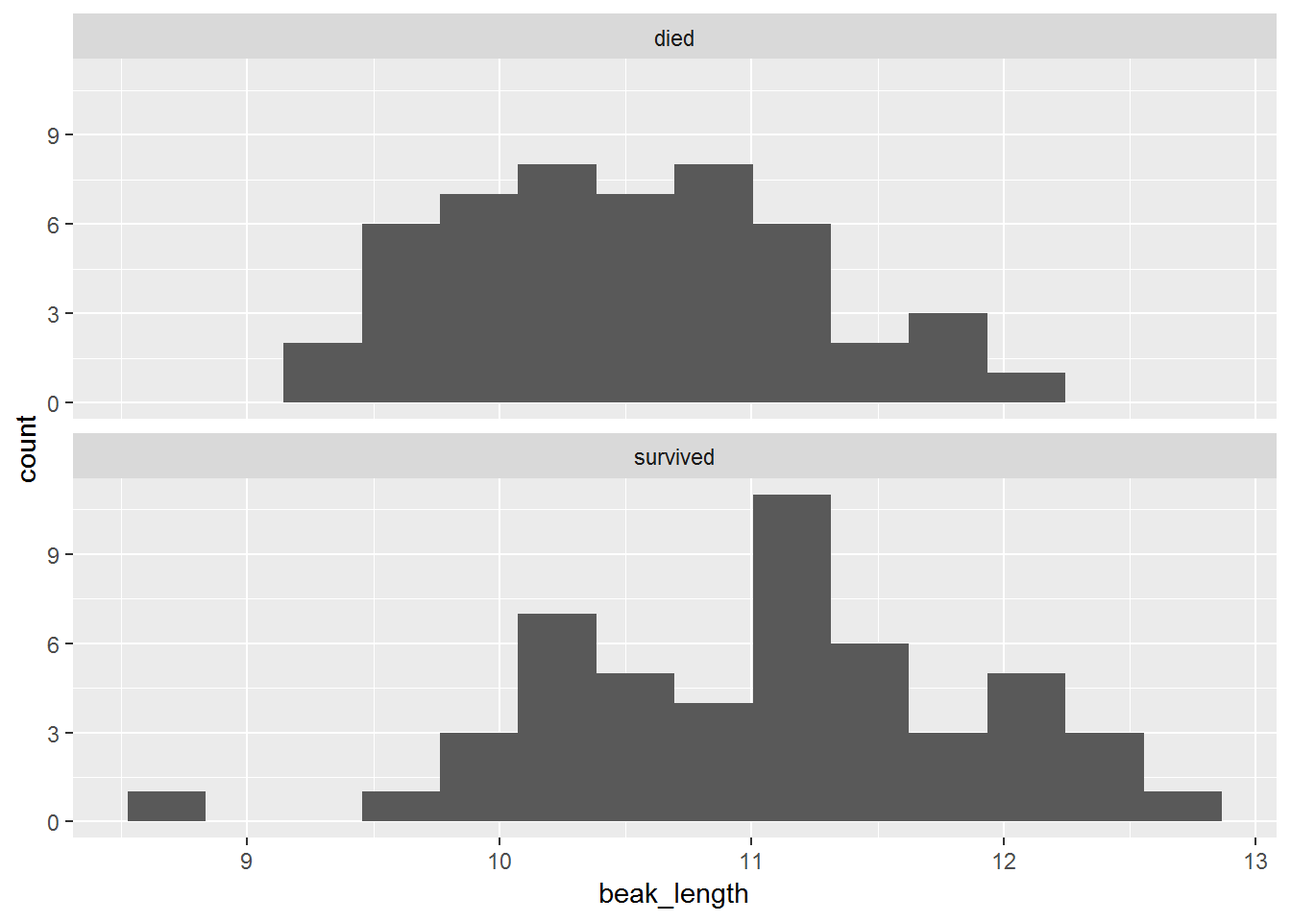
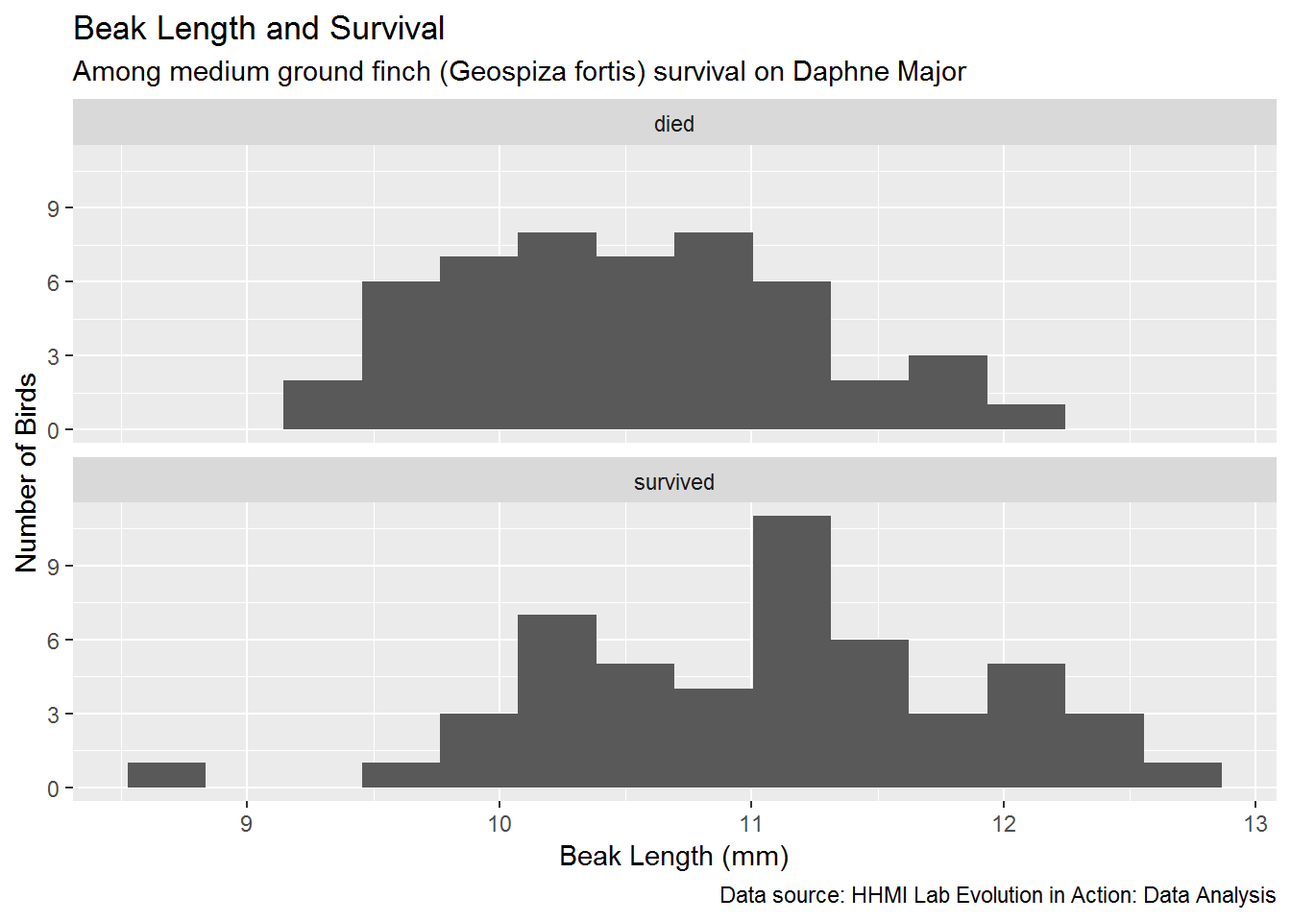
Add t-test text and update figures

diff --git a/lab1_finch.html b/lab1_finch.html
@@ -282,12 +282,12 @@ $(document).ready(function () {
 <div class="sourceCode" id="cb1"><pre class="sourceCode r"><code class="sourceCode r"><a class="sourceLine" id="cb1-1" data-line-number="1"><span class="kw">library</span>(readxl)                <span class="co"># load readxl, for reading Excel files</span></a>
 <a class="sourceLine" id="cb1-2" data-line-number="2"><span class="kw">library</span>(tidyverse)             <span class="co"># load tidyverse, for working with datasets</span></a></code></pre></div>
 <pre><code>## Warning: package &#39;tidyverse&#39; was built under R version 3.5.1</code></pre>
-<pre><code>## -- Attaching packages ------------------</code></pre>
+<pre><code>## -- Attaching packages ------------------------------------------ tidyverse 1.2.1 --</code></pre>
 <pre><code>## v ggplot2 2.2.1.9000     v purrr   0.2.5     
 ## v tibble  1.4.2          v dplyr   0.7.5     
 ## v tidyr   0.8.1          v stringr 1.3.1     
 ## v readr   1.1.1          v forcats 0.3.0</code></pre>
-<pre><code>## -- Conflicts -- tidyverse_conflicts() --
+<pre><code>## -- Conflicts --------------------------------------------- tidyverse_conflicts() --
 ## x dplyr::filter() masks stats::filter()
 ## x dplyr::lag()    masks stats::lag()</code></pre>
 <p>You will see a warning and some messages when you run this code, but those can be safely ignored for now.</p>
@@ -327,10 +327,42 @@ $(document).ready(function () {
 ## $ beak_depth       &lt;dbl&gt; 8.3, 7.5, 8.0, 10.6, 11.2, 9.1, 9.5, 10.5, 8....
 ## $ beak_width       &lt;dbl&gt; 8.1, 7.5, 7.6, 9.4, 9.5, 8.8, 8.9, 9.1, 8.2, ...</code></pre>
 </div>
+<div id="plotting-a-histogram" class="section level3">
+<h3>Plotting a histogram</h3>
+<p>Plotting is most easily accomplished using the <code>ggplot()</code> function and its associated helper functions.</p>
+<p>For example, to plot a histogram of the <code>beak_length</code> variable, use the following code. In this example, you will set the x axis to <code>beak_length</code> and setting the number of bins to use for the histogram to <code>12</code>.</p>
+<div class="sourceCode" id="cb10"><pre class="sourceCode r"><code class="sourceCode r"><a class="sourceLine" id="cb10-1" data-line-number="1"><span class="kw">ggplot</span>(finches, <span class="kw">aes</span>(<span class="dt">x =</span> beak_length)) <span class="op">+</span></a>
+<a class="sourceLine" id="cb10-2" data-line-number="2"><span class="st">  </span><span class="kw">geom_histogram</span>(<span class="dt">bins =</span> <span class="dv">12</span>)</a></code></pre></div>
+<p><img src="lab1_finch_files/figure-html/unnamed-chunk-4-1.png" width="672" /> You can plot histograms of other columns by changing the <code>x =</code> part of the code.</p>
+<p>You can also experiment with different numbers of bins. The goal is to have enough that you can see a hump-shaped distribution, but not so many that you have too many bins with few or no observations. Try plotting a histogram with 50 bins, and another with 3 bins. Not very informational, are they?</p>
+<p>Sometimes we want to plot separate histograms for differet subsets of the data. One easy way to do this is with the <code>facet_wrap()</code> function in ggplot. Note that you have to add a <code>+</code> operator after the <code>geom_histogram()</code> line.</p>
+<div class="sourceCode" id="cb11"><pre class="sourceCode r"><code class="sourceCode r"><a class="sourceLine" id="cb11-1" data-line-number="1"><span class="kw">ggplot</span>(finches, <span class="kw">aes</span>(beak_length)) <span class="op">+</span></a>
+<a class="sourceLine" id="cb11-2" data-line-number="2"><span class="st">  </span><span class="kw">geom_histogram</span>(<span class="dt">bins =</span> <span class="dv">14</span>) <span class="op">+</span></a>
+<a class="sourceLine" id="cb11-3" data-line-number="3"><span class="st">  </span><span class="kw">facet_wrap</span>(<span class="op">~</span><span class="st"> </span>outcome, <span class="dt">ncol =</span> <span class="dv">1</span>)</a></code></pre></div>
+<p><img src="lab1_finch_files/figure-html/unnamed-chunk-5-1.png" width="672" /></p>
+<p>The last thing you might want to do is spruce up your plot with a title and better axis labels. This is done with the <code>labs()</code> function:</p>
+<div class="sourceCode" id="cb12"><pre class="sourceCode r"><code class="sourceCode r"><a class="sourceLine" id="cb12-1" data-line-number="1"><span class="kw">ggplot</span>(finches, <span class="kw">aes</span>(beak_length)) <span class="op">+</span></a>
+<a class="sourceLine" id="cb12-2" data-line-number="2"><span class="st">  </span><span class="kw">geom_histogram</span>(<span class="dt">bins =</span> <span class="dv">14</span>) <span class="op">+</span></a>
+<a class="sourceLine" id="cb12-3" data-line-number="3"><span class="st">  </span><span class="kw">facet_wrap</span>(<span class="op">~</span><span class="st"> </span>outcome, <span class="dt">ncol =</span> <span class="dv">1</span>) <span class="op">+</span></a>
+<a class="sourceLine" id="cb12-4" data-line-number="4"><span class="st">  </span><span class="kw">labs</span>(</a>
+<a class="sourceLine" id="cb12-5" data-line-number="5">    <span class="dt">x =</span> <span class="st">&quot;Beak Length (mm)&quot;</span>,</a>
+<a class="sourceLine" id="cb12-6" data-line-number="6">    <span class="dt">y =</span> <span class="st">&quot;Number of Birds&quot;</span>,</a>
+<a class="sourceLine" id="cb12-7" data-line-number="7">    <span class="dt">title =</span> <span class="st">&quot;Beak Length and Survival&quot;</span>,</a>
+<a class="sourceLine" id="cb12-8" data-line-number="8">    <span class="dt">subtitle =</span> <span class="st">&quot;Among medium ground finch (Geospiza fortis) survival on Daphne Major&quot;</span>,</a>
+<a class="sourceLine" id="cb12-9" data-line-number="9">    <span class="dt">caption =</span> <span class="st">&quot;Data source: HHMI Lab Evolution in Action: Data Analysis&quot;</span>)</a></code></pre></div>
+<p><img src="lab1_finch_files/figure-html/unnamed-chunk-6-1.png" width="672" /></p>
+<div id="export-your-figure" class="section level4">
+<h4>Export your figure</h4>
+<p>To use your figure in a Microsoft Word document, PowerPoint presentation, or other software, you first need to save the image. The most reproducible way to do so is to use the <code>ggsave()</code> function.</p>
+<p>By default, <code>ggsave()</code> will save the last plot displayed, so make sure the plot you want to save is displayed in the <strong>Plots</strong> tab in the bottom right panel before running this code.</p>
+<div class="sourceCode" id="cb13"><pre class="sourceCode r"><code class="sourceCode r"><a class="sourceLine" id="cb13-1" data-line-number="1"><span class="kw">ggsave</span>(<span class="st">&quot;Beak Length Histogram.png&quot;</span>, </a>
+<a class="sourceLine" id="cb13-2" data-line-number="2">       <span class="dt">width =</span> <span class="fl">6.5</span>, <span class="dt">height =</span> <span class="fl">6.5</span>, <span class="dt">units =</span> <span class="st">&quot;in&quot;</span>)</a></code></pre></div>
+</div>
+</div>
 <div id="summarizing-datasets" class="section level3">
 <h3>Summarizing datasets</h3>
 <p>Scientists often want a quick summary of a dataset. The <code>summary()</code> function provides just that, and is especially useful for seeing summary statistics of numerical variables. Running this function prints a summary to the console, with the minimum value, median value, mean, maximum value, and first and third quartiles given for each numerical variable:</p>
-<div class="sourceCode" id="cb10"><pre class="sourceCode r"><code class="sourceCode r"><a class="sourceLine" id="cb10-1" data-line-number="1"><span class="kw">summary</span>(finches)</a></code></pre></div>
+<div class="sourceCode" id="cb14"><pre class="sourceCode r"><code class="sourceCode r"><a class="sourceLine" id="cb14-1" data-line-number="1"><span class="kw">summary</span>(finches)</a></code></pre></div>
 <pre><code>##       band          species              sex            first_adult_year
 ##  Min.   :   9.0   Length:100         Length:100         Min.   :1973    
 ##  1st Qu.: 421.5   Class :character   Class :character   1st Qu.:1975    
@@ -353,70 +385,100 @@ $(document).ready(function () {
 ##  3rd Qu.:20.00   3rd Qu.:11.25   3rd Qu.:10.100   3rd Qu.: 9.055  
 ##  Max.   :21.06   Max.   :12.73   Max.   :11.210   Max.   :10.070</code></pre>
 <p>If we want to do anything more than, then we need to use functions provided in the tidyverse to summarize the data. The following code will summarize a dataset by calculating the mean, standard deviation, standard error of the mean (SEM), and 95% confidence intervals of the <code>beak_length</code> variable.</p>
-<div class="sourceCode" id="cb12"><pre class="sourceCode r"><code class="sourceCode r"><a class="sourceLine" id="cb12-1" data-line-number="1">summary &lt;-<span class="st"> </span>finches <span class="op">%&gt;%</span><span class="st"> </span></a>
-<a class="sourceLine" id="cb12-2" data-line-number="2"><span class="st">  </span><span class="kw">summarize</span>(<span class="dt">mean =</span> <span class="kw">mean</span>(beak_length),</a>
-<a class="sourceLine" id="cb12-3" data-line-number="3">            <span class="dt">sd =</span> <span class="kw">sd</span>(beak_length),</a>
-<a class="sourceLine" id="cb12-4" data-line-number="4">            <span class="dt">n =</span> <span class="kw">n</span>()) <span class="op">%&gt;%</span><span class="st"> </span></a>
-<a class="sourceLine" id="cb12-5" data-line-number="5"><span class="st">  </span><span class="kw">mutate</span>(<span class="dt">sem =</span> sd <span class="op">/</span><span class="st"> </span><span class="kw">sqrt</span>(n),</a>
-<a class="sourceLine" id="cb12-6" data-line-number="6">         <span class="dt">upper =</span> mean <span class="op">+</span><span class="st"> </span><span class="dv">2</span> <span class="op">*</span><span class="st"> </span>sem,</a>
-<a class="sourceLine" id="cb12-7" data-line-number="7">         <span class="dt">lower =</span> mean <span class="op">-</span><span class="st"> </span><span class="dv">2</span> <span class="op">*</span><span class="st"> </span>sem)</a>
-<a class="sourceLine" id="cb12-8" data-line-number="8">summary</a></code></pre></div>
+<div class="sourceCode" id="cb16"><pre class="sourceCode r"><code class="sourceCode r"><a class="sourceLine" id="cb16-1" data-line-number="1">summary &lt;-<span class="st"> </span>finches <span class="op">%&gt;%</span><span class="st"> </span></a>
+<a class="sourceLine" id="cb16-2" data-line-number="2"><span class="st">  </span><span class="kw">summarize</span>(<span class="dt">mean =</span> <span class="kw">mean</span>(beak_length),</a>
+<a class="sourceLine" id="cb16-3" data-line-number="3">            <span class="dt">sd =</span> <span class="kw">sd</span>(beak_length),</a>
+<a class="sourceLine" id="cb16-4" data-line-number="4">            <span class="dt">n =</span> <span class="kw">n</span>()) <span class="op">%&gt;%</span><span class="st"> </span></a>
+<a class="sourceLine" id="cb16-5" data-line-number="5"><span class="st">  </span><span class="kw">mutate</span>(<span class="dt">sem =</span> sd <span class="op">/</span><span class="st"> </span><span class="kw">sqrt</span>(n),</a>
+<a class="sourceLine" id="cb16-6" data-line-number="6">         <span class="dt">upper =</span> mean <span class="op">+</span><span class="st"> </span><span class="dv">2</span> <span class="op">*</span><span class="st"> </span>sem,</a>
+<a class="sourceLine" id="cb16-7" data-line-number="7">         <span class="dt">lower =</span> mean <span class="op">-</span><span class="st"> </span><span class="dv">2</span> <span class="op">*</span><span class="st"> </span>sem)</a>
+<a class="sourceLine" id="cb16-8" data-line-number="8">summary</a></code></pre></div>
 <pre><code>## # A tibble: 1 x 6
 ##    mean    sd     n    sem upper lower
 ##   &lt;dbl&gt; &lt;dbl&gt; &lt;int&gt;  &lt;dbl&gt; &lt;dbl&gt; &lt;dbl&gt;
 ## 1  10.8 0.819   100 0.0819  11.0  10.6</code></pre>
 <p>If we wanted to get separate summaries for different subsets of the data, we can add the <code>group_by()</code> function like this:</p>
-<div class="sourceCode" id="cb14"><pre class="sourceCode r"><code class="sourceCode r"><a class="sourceLine" id="cb14-1" data-line-number="1">grouped_summary &lt;-<span class="st"> </span>finches <span class="op">%&gt;%</span><span class="st"> </span></a>
-<a class="sourceLine" id="cb14-2" data-line-number="2"><span class="st">  </span><span class="kw">group_by</span>(outcome) <span class="op">%&gt;%</span><span class="st"> </span></a>
-<a class="sourceLine" id="cb14-3" data-line-number="3"><span class="st">  </span><span class="kw">summarize</span>(<span class="dt">mean =</span> <span class="kw">mean</span>(beak_length),</a>
-<a class="sourceLine" id="cb14-4" data-line-number="4">            <span class="dt">sd =</span> <span class="kw">sd</span>(beak_length),</a>
-<a class="sourceLine" id="cb14-5" data-line-number="5">            <span class="dt">n =</span> <span class="kw">n</span>()) <span class="op">%&gt;%</span><span class="st"> </span></a>
-<a class="sourceLine" id="cb14-6" data-line-number="6"><span class="st">  </span><span class="kw">mutate</span>(<span class="dt">sem =</span> sd <span class="op">/</span><span class="st"> </span><span class="kw">sqrt</span>(n),</a>
-<a class="sourceLine" id="cb14-7" data-line-number="7">         <span class="dt">upper =</span> mean <span class="op">+</span><span class="st"> </span><span class="dv">2</span> <span class="op">*</span><span class="st"> </span>sem,</a>
-<a class="sourceLine" id="cb14-8" data-line-number="8">         <span class="dt">lower =</span> mean <span class="op">-</span><span class="st"> </span><span class="dv">2</span> <span class="op">*</span><span class="st"> </span>sem)</a>
-<a class="sourceLine" id="cb14-9" data-line-number="9">grouped_summary</a></code></pre></div>
+<div class="sourceCode" id="cb18"><pre class="sourceCode r"><code class="sourceCode r"><a class="sourceLine" id="cb18-1" data-line-number="1">grouped_summary &lt;-<span class="st"> </span>finches <span class="op">%&gt;%</span><span class="st"> </span></a>
+<a class="sourceLine" id="cb18-2" data-line-number="2"><span class="st">  </span><span class="kw">group_by</span>(outcome) <span class="op">%&gt;%</span><span class="st"> </span></a>
+<a class="sourceLine" id="cb18-3" data-line-number="3"><span class="st">  </span><span class="kw">summarize</span>(<span class="dt">mean =</span> <span class="kw">mean</span>(beak_length),</a>
+<a class="sourceLine" id="cb18-4" data-line-number="4">            <span class="dt">sd =</span> <span class="kw">sd</span>(beak_length),</a>
+<a class="sourceLine" id="cb18-5" data-line-number="5">            <span class="dt">n =</span> <span class="kw">n</span>()) <span class="op">%&gt;%</span><span class="st"> </span></a>
+<a class="sourceLine" id="cb18-6" data-line-number="6"><span class="st">  </span><span class="kw">mutate</span>(<span class="dt">sem =</span> sd <span class="op">/</span><span class="st"> </span><span class="kw">sqrt</span>(n),</a>
+<a class="sourceLine" id="cb18-7" data-line-number="7">         <span class="dt">upper =</span> mean <span class="op">+</span><span class="st"> </span><span class="dv">2</span> <span class="op">*</span><span class="st"> </span>sem,</a>
+<a class="sourceLine" id="cb18-8" data-line-number="8">         <span class="dt">lower =</span> mean <span class="op">-</span><span class="st"> </span><span class="dv">2</span> <span class="op">*</span><span class="st"> </span>sem)</a>
+<a class="sourceLine" id="cb18-9" data-line-number="9">grouped_summary</a></code></pre></div>
 <pre><code>## # A tibble: 2 x 7
 ##   outcome   mean    sd     n    sem upper lower
 ##   &lt;chr&gt;    &lt;dbl&gt; &lt;dbl&gt; &lt;int&gt;  &lt;dbl&gt; &lt;dbl&gt; &lt;dbl&gt;
 ## 1 died      10.5 0.698    50 0.0987  10.7  10.3
 ## 2 survived  11.1 0.840    50 0.119   11.3  10.8</code></pre>
+<p>To plot these means and confidence intervals:</p>
+<div class="sourceCode" id="cb20"><pre class="sourceCode r"><code class="sourceCode r"><a class="sourceLine" id="cb20-1" data-line-number="1"><span class="kw">ggplot</span>(</a>
+<a class="sourceLine" id="cb20-2" data-line-number="2">  <span class="dt">data =</span> grouped_summary, </a>
+<a class="sourceLine" id="cb20-3" data-line-number="3">  <span class="dt">mapping =</span> <span class="kw">aes</span>(<span class="dt">x =</span> outcome, <span class="dt">y =</span> mean, <span class="dt">fill =</span> outcome)</a>
+<a class="sourceLine" id="cb20-4" data-line-number="4">) <span class="op">+</span></a>
+<a class="sourceLine" id="cb20-5" data-line-number="5"><span class="st">  </span><span class="kw">geom_col</span>() <span class="op">+</span></a>
+<a class="sourceLine" id="cb20-6" data-line-number="6"><span class="st">  </span><span class="kw">geom_errorbar</span>(<span class="kw">aes</span>(<span class="dt">ymin =</span> lower, <span class="dt">ymax =</span> upper), <span class="dt">width =</span> <span class="fl">.3</span>) <span class="op">+</span></a>
+<a class="sourceLine" id="cb20-7" data-line-number="7"><span class="st">  </span><span class="kw">labs</span>(</a>
+<a class="sourceLine" id="cb20-8" data-line-number="8">    <span class="dt">x =</span> <span class="st">&quot;Survival Outcome&quot;</span>,</a>
+<a class="sourceLine" id="cb20-9" data-line-number="9">    <span class="dt">y =</span> <span class="st">&quot;Beak Length (mm)&quot;</span>,</a>
+<a class="sourceLine" id="cb20-10" data-line-number="10">    <span class="dt">title =</span> <span class="st">&quot;Mean beak lengths vs. survival&quot;</span></a>
+<a class="sourceLine" id="cb20-11" data-line-number="11">  )</a></code></pre></div>
+<p><img src="lab1_finch_files/figure-html/unnamed-chunk-11-1.png" width="384" /></p>
+<div id="export-your-figure-1" class="section level4">
+<h4>Export your figure</h4>
+<div class="sourceCode" id="cb21"><pre class="sourceCode r"><code class="sourceCode r"><a class="sourceLine" id="cb21-1" data-line-number="1"><span class="kw">ggsave</span>(<span class="st">&quot;Beak Length Histogram.png&quot;</span>, </a>
+<a class="sourceLine" id="cb21-2" data-line-number="2">       <span class="dt">width =</span> <span class="dv">3</span>, <span class="dt">height =</span> <span class="dv">3</span>, <span class="dt">units =</span> <span class="st">&quot;in&quot;</span>)</a></code></pre></div>
 </div>
-<div id="plotting-a-histogram" class="section level3">
-<h3>Plotting a histogram</h3>
-<p>Plotting is most easily accomplished using the <code>ggplot()</code> function and its associated helper functions.</p>
-<p>For example, to plot a histogram of the <code>beak_length</code> variable, use the following code. In this example, you will set the x axis to <code>beak_length</code> and setting the number of bins to use for the histogram to <code>12</code>.</p>
-<div class="sourceCode" id="cb16"><pre class="sourceCode r"><code class="sourceCode r"><a class="sourceLine" id="cb16-1" data-line-number="1"><span class="kw">ggplot</span>(finches, <span class="kw">aes</span>(<span class="dt">x =</span> beak_length)) <span class="op">+</span></a>
-<a class="sourceLine" id="cb16-2" data-line-number="2"><span class="st">  </span><span class="kw">geom_histogram</span>(<span class="dt">bins =</span> <span class="dv">12</span>)</a></code></pre></div>
-<p><img src="lab1_finch_files/figure-html/unnamed-chunk-7-1.png" width="672" /> You can plot histograms of other columns by changing the <code>x =</code> part of the code.</p>
-<p>You can also experiment with different numbers of bins. The goal is to have enough that you can see a hump-shaped distribution, but not so many that you have too many bins with few or no observations. Try plotting a histogram with 50 bins, and another with 3 bins. Not very informational, are they?</p>
-<p>Sometimes we want to plot separate histograms for differet subsets of the data. One easy way to do this is with the <code>facet_wrap()</code> function in ggplot. Note that you have to add a <code>+</code> operator after the <code>geom_histogram()</code> line.</p>
-<div class="sourceCode" id="cb17"><pre class="sourceCode r"><code class="sourceCode r"><a class="sourceLine" id="cb17-1" data-line-number="1"><span class="kw">ggplot</span>(finches, <span class="kw">aes</span>(beak_length)) <span class="op">+</span></a>
-<a class="sourceLine" id="cb17-2" data-line-number="2"><span class="st">  </span><span class="kw">geom_histogram</span>(<span class="dt">bins =</span> <span class="dv">14</span>) <span class="op">+</span></a>
-<a class="sourceLine" id="cb17-3" data-line-number="3"><span class="st">  </span><span class="kw">facet_wrap</span>(<span class="op">~</span><span class="st"> </span>outcome, <span class="dt">ncol =</span> <span class="dv">1</span>)</a></code></pre></div>
-<p><img src="lab1_finch_files/figure-html/unnamed-chunk-8-1.png" width="672" /></p>
-<p>The last thing you might want to do is spruce up your plot with a title and better axis labels. This is done with the <code>labs()</code> function:</p>
-<div class="sourceCode" id="cb18"><pre class="sourceCode r"><code class="sourceCode r"><a class="sourceLine" id="cb18-1" data-line-number="1"><span class="kw">ggplot</span>(finches, <span class="kw">aes</span>(beak_length)) <span class="op">+</span></a>
-<a class="sourceLine" id="cb18-2" data-line-number="2"><span class="st">  </span><span class="kw">geom_histogram</span>(<span class="dt">bins =</span> <span class="dv">14</span>) <span class="op">+</span></a>
-<a class="sourceLine" id="cb18-3" data-line-number="3"><span class="st">  </span><span class="kw">facet_wrap</span>(<span class="op">~</span><span class="st"> </span>outcome, <span class="dt">ncol =</span> <span class="dv">1</span>) <span class="op">+</span></a>
-<a class="sourceLine" id="cb18-4" data-line-number="4"><span class="st">  </span><span class="kw">labs</span>(</a>
-<a class="sourceLine" id="cb18-5" data-line-number="5">    <span class="dt">x =</span> <span class="st">&quot;Beak Length (mm)&quot;</span>,</a>
-<a class="sourceLine" id="cb18-6" data-line-number="6">    <span class="dt">y =</span> <span class="st">&quot;Number of Birds&quot;</span>,</a>
-<a class="sourceLine" id="cb18-7" data-line-number="7">    <span class="dt">title =</span> <span class="st">&quot;Beak Length and Survival&quot;</span>,</a>
-<a class="sourceLine" id="cb18-8" data-line-number="8">    <span class="dt">subtitle =</span> <span class="st">&quot;Among medium ground finch (Geospiza fortis) survival on Daphne Major&quot;</span>,</a>
-<a class="sourceLine" id="cb18-9" data-line-number="9">    <span class="dt">caption =</span> <span class="st">&quot;Data source: HHMI Lab Evolution in Action: Data Analysis&quot;</span>)</a></code></pre></div>
-<p><img src="lab1_finch_files/figure-html/unnamed-chunk-9-1.png" width="672" /></p>
-</div>
-<div id="export-your-figure" class="section level3">
-<h3>Export your figure</h3>
-<p>To use your figure in a Microsoft Word document, PowerPoint presentation, or other software, you first need to save the image. The most reproducible way to do so is to use the <code>ggsave()</code> function.</p>
-<p>By default, <code>ggsave()</code> will save the last plot displayed, so make sure the plot you want to save is displayed in the <strong>Plots</strong> tab in the bottom right panel before running this code.</p>
-<div class="sourceCode" id="cb19"><pre class="sourceCode r"><code class="sourceCode r"><a class="sourceLine" id="cb19-1" data-line-number="1"><span class="kw">ggsave</span>(<span class="st">&quot;Beak Length Histogram.png&quot;</span>, <span class="dt">width =</span> <span class="fl">6.5</span>, <span class="dt">height =</span> <span class="fl">6.5</span>, <span class="dt">units =</span> <span class="st">&quot;in&quot;</span>)</a></code></pre></div>
-</div>
-<div id="summarize-and-plot" class="section level3">
-<h3>Summarize and plot</h3>
 </div>
 <div id="t-test" class="section level3">
-<h3>T-test</h3>
+<h3>t-test</h3>
+<p>Plotting the means and confidence intervals of measurements in the two groups of birds is an important step in data analysis. To perform a more rigourous comparison, however, you may run a t-test to tell if the difference in means is likely due to chance (i.e. sampling error) or not.</p>
+<p>The t-test function in R is a bit picky… it requires you to give it two arguments: a vector of measurements for one group and another vector of measurements for the other group. To do this, you must perform three steps:</p>
+<ol style="list-style-type: decimal">
+<li>Create a vector of beak lengths for birds that died.</li>
+<li>Create a vector of beak lengths for birds that survived.</li>
+<li>Compare the two vectors using a t-test.</li>
+</ol>
+<p>STEP 1: The following code will take a dataset, in this case <code>finches</code>, remove rows that do not meet a given criteria, and extract the column of interest as a vector, and store the result as a new object named <code>beak_length_died</code>.</p>
+<div class="sourceCode" id="cb22"><pre class="sourceCode r"><code class="sourceCode r"><a class="sourceLine" id="cb22-1" data-line-number="1">beak_length_died &lt;-</a>
+<a class="sourceLine" id="cb22-2" data-line-number="2"><span class="st">  </span>finches <span class="op">%&gt;%</span><span class="st"> </span></a>
+<a class="sourceLine" id="cb22-3" data-line-number="3"><span class="st">  </span><span class="kw">filter</span>(outcome <span class="op">==</span><span class="st"> &quot;died&quot;</span>) <span class="op">%&gt;%</span><span class="st"> </span></a>
+<a class="sourceLine" id="cb22-4" data-line-number="4"><span class="st">  </span><span class="kw">pull</span>(beak_length)</a>
+<a class="sourceLine" id="cb22-5" data-line-number="5">beak_length_died  <span class="co"># print the new object in the console</span></a></code></pre></div>
+<pre><code>##  [1]  9.20  9.50  9.93 11.13 12.13 10.63  9.93 11.33  9.93 11.10 10.80
+## [12]  9.70 10.60  9.60 10.50  9.90  9.60 10.70  9.30 10.10  9.70 11.00
+## [23] 11.00 11.60 10.50 10.20  9.70 11.10 11.10 10.20 10.80 10.00 11.10
+## [34] 10.30 11.10 10.50 11.00 10.00 10.30 11.70 10.20 10.90 11.90 10.20
+## [45] 10.50 10.50  9.80 11.80 11.00 10.30</code></pre>
+<p>STEP 2: Now copy that code and change “died” to “survived” in your object name, so <code>beak_length_survived</code>, and in the filter criteria, so <code>outcome == &quot;survived&quot;</code>.</p>
+<div class="sourceCode" id="cb24"><pre class="sourceCode r"><code class="sourceCode r"><a class="sourceLine" id="cb24-1" data-line-number="1">beak_length_survived &lt;-</a>
+<a class="sourceLine" id="cb24-2" data-line-number="2"><span class="st">  </span>finches <span class="op">%&gt;%</span><span class="st"> </span></a>
+<a class="sourceLine" id="cb24-3" data-line-number="3"><span class="st">  </span><span class="kw">filter</span>(outcome <span class="op">==</span><span class="st"> &quot;survived&quot;</span>) <span class="op">%&gt;%</span><span class="st"> </span></a>
+<a class="sourceLine" id="cb24-4" data-line-number="4"><span class="st">  </span><span class="kw">pull</span>(beak_length)</a>
+<a class="sourceLine" id="cb24-5" data-line-number="5">beak_length_survived</a></code></pre></div>
+<pre><code>##  [1] 11.50 10.20 12.10 11.60 10.30 11.40  8.70  9.90 10.20 10.30 11.43
+## [12] 11.93 11.03 10.63 10.83 11.23 11.23 10.23 11.63 12.23 11.03 11.13
+## [23] 10.93 11.03 10.23 11.33 10.03 10.70 10.00 12.43 11.09  9.63 11.60
+## [34] 11.30 12.13 12.03 10.63 11.83 12.43 12.73 10.33 11.03 12.53 12.13
+## [45] 10.43 10.53 11.23 11.23 10.90 10.50</code></pre>
+<p>STEP 3: Perform a t-test using the <code>t.test()</code> function:</p>
+<div class="sourceCode" id="cb26"><pre class="sourceCode r"><code class="sourceCode r"><a class="sourceLine" id="cb26-1" data-line-number="1"><span class="kw">t.test</span>(beak_length_died, beak_length_survived)</a></code></pre></div>
+<pre><code>## 
+##  Welch Two Sample t-test
+## 
+## data:  beak_length_died and beak_length_survived
+## t = -3.6335, df = 94.807, p-value = 0.0004539
+## alternative hypothesis: true difference in means is not equal to 0
+## 95 percent confidence interval:
+##  -0.8681443 -0.2546557
+## sample estimates:
+## mean of x mean of y 
+##   10.5122   11.0736</code></pre>
+<p>The two numbers to focus on here are the <strong>p-value</strong> and the <strong>95% confidence interval</strong>.</p>
+<p>The <em>p</em>-value tells you what proportion of the time you would expect to find a difference in population like these two if they were in fact the same. Scientists generally use a cutoff (or <em>alpha level</em>) of 0.05 to determine if a difference is “statistically significant”. In this case, a <em>p</em>-value of 0.0004539 is much lower than 0.05, so we can reject our null hypothesis and accept our alternative hypothesis that the true difference in means is not equal to 0.</p>
+<p>As further evidence that the difference between the means is not equal to zero, you can see that the 95% confidence interval does not include zero.</p>
+<p>To report the findings of a t-test, you say [ALISON WHAT DID YOU TELL THEM?]</p>
 <p>[add link to a SEM explainer]</p>
 <p>When you’re ready, you can move on to Part 4.</p>
 <div id="part-4.-bluestem-dataset" class="section level4">
